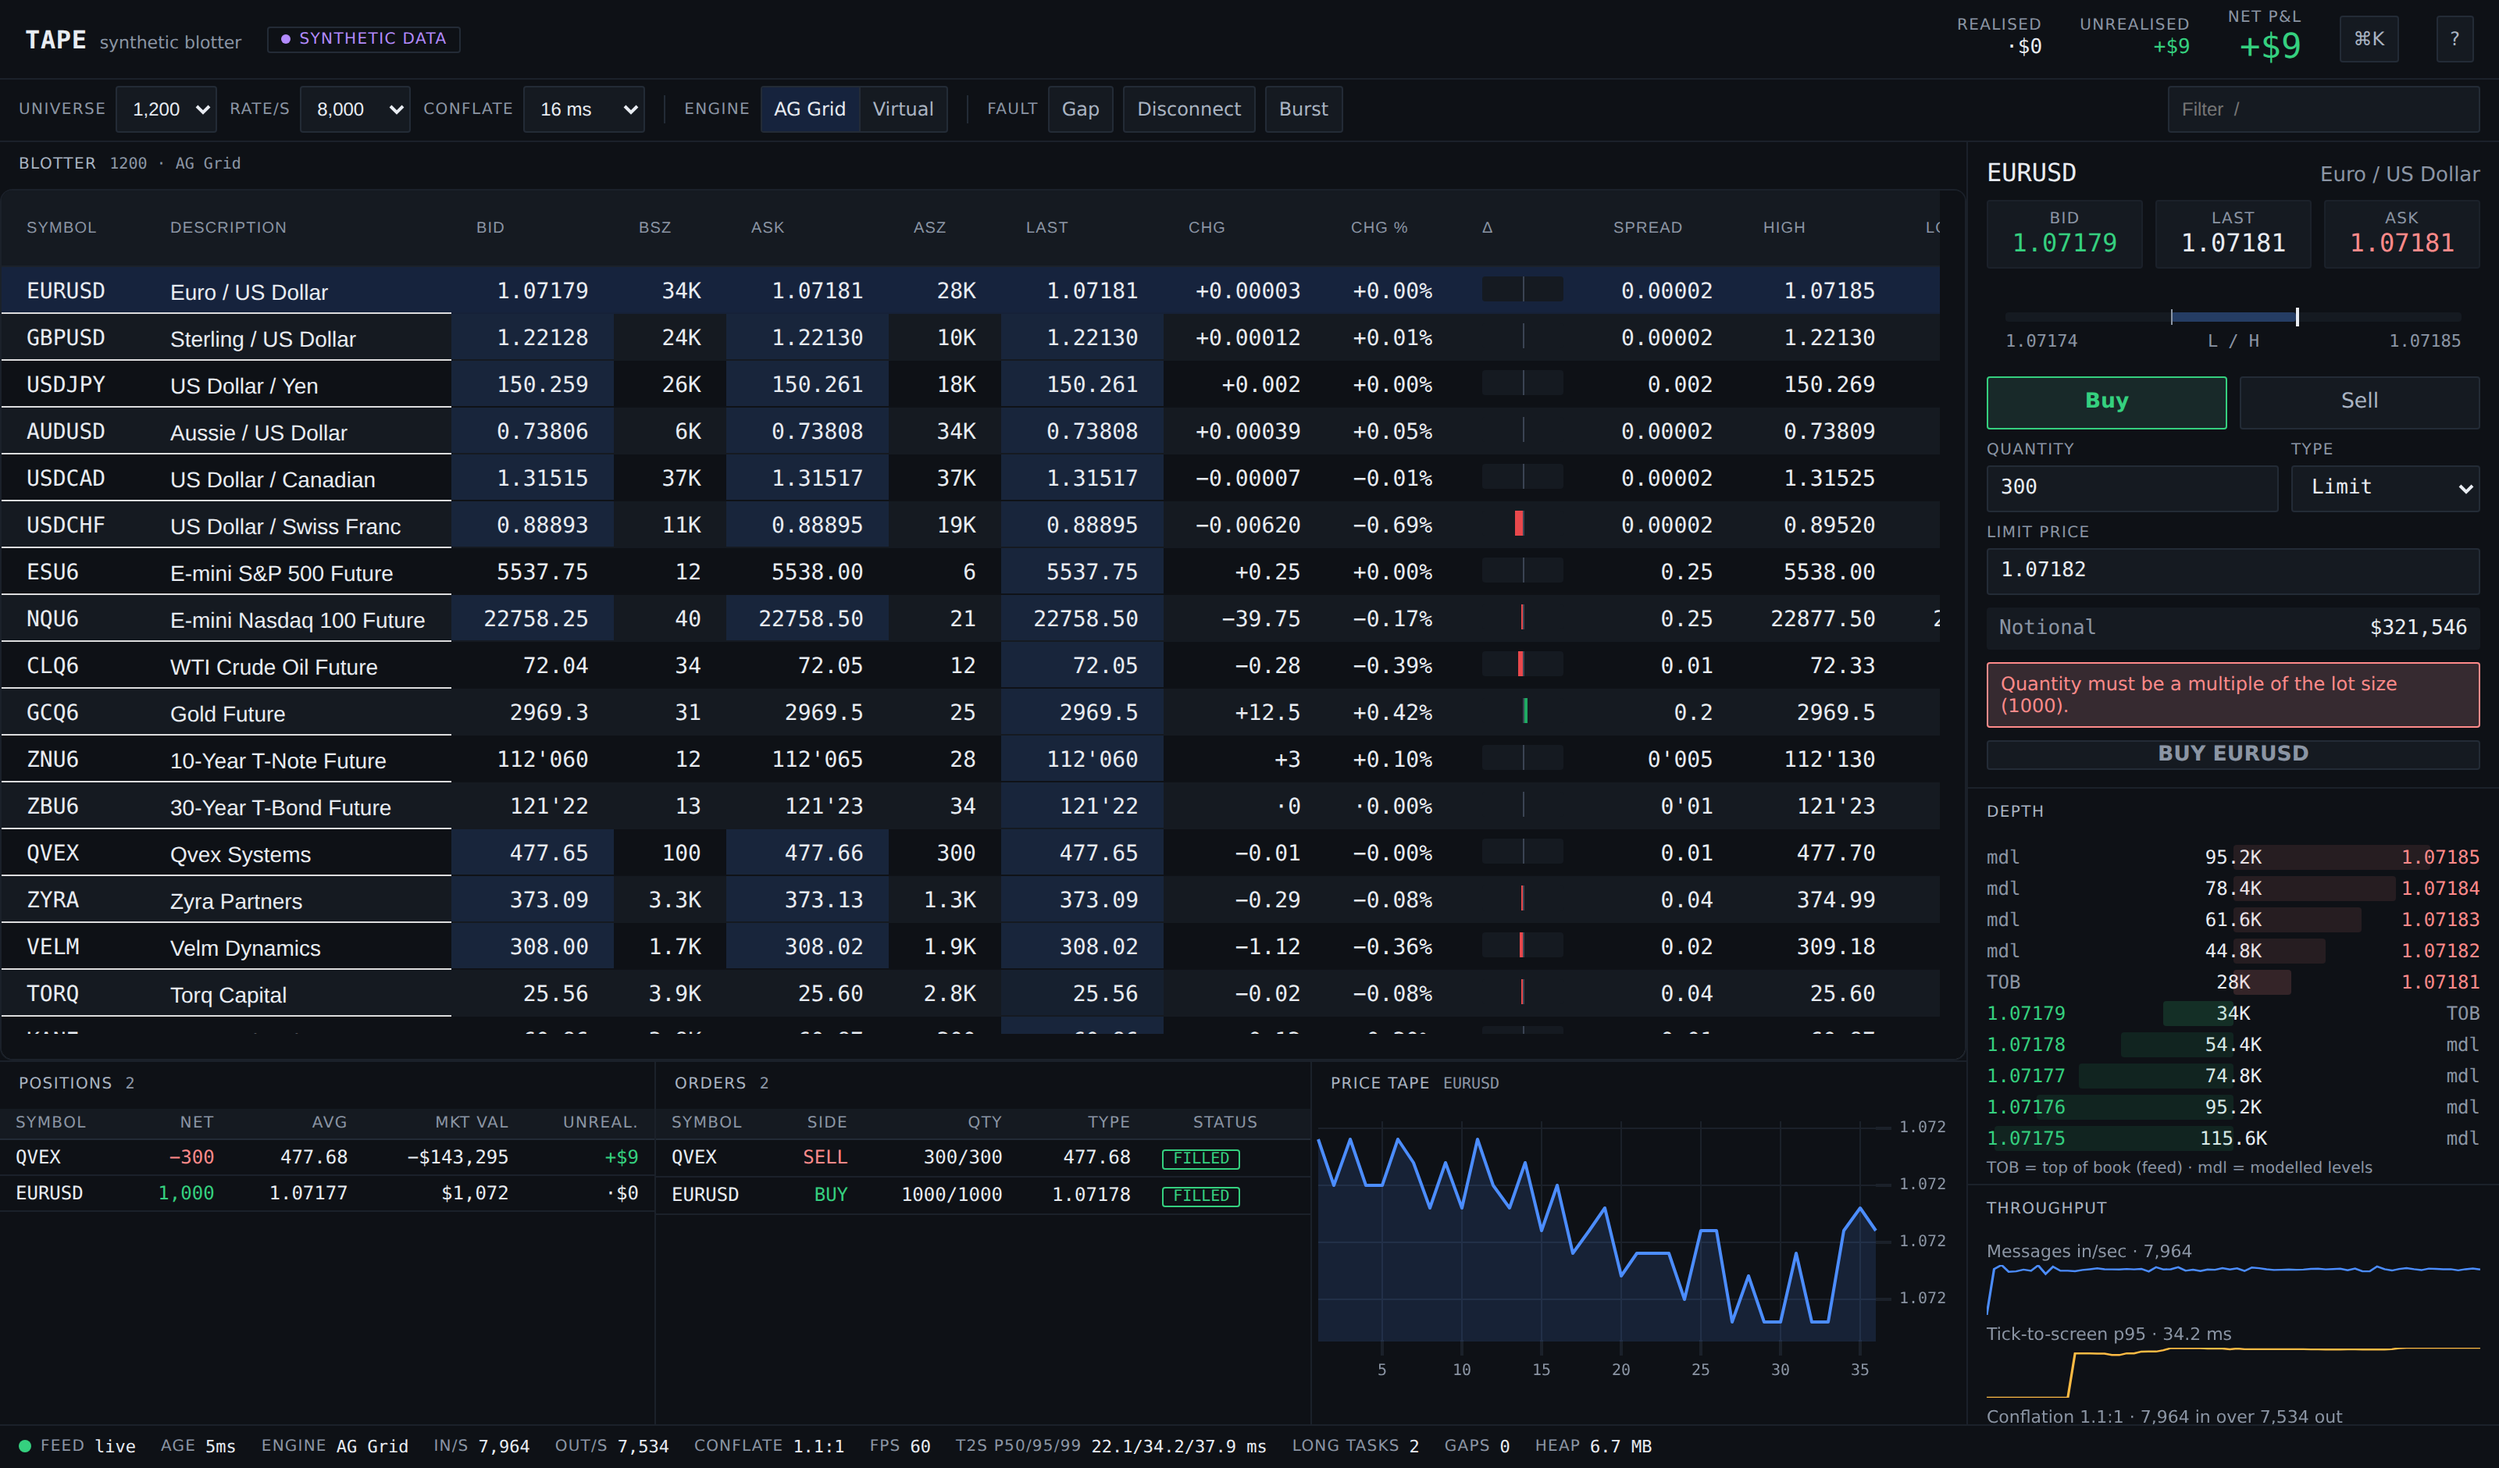
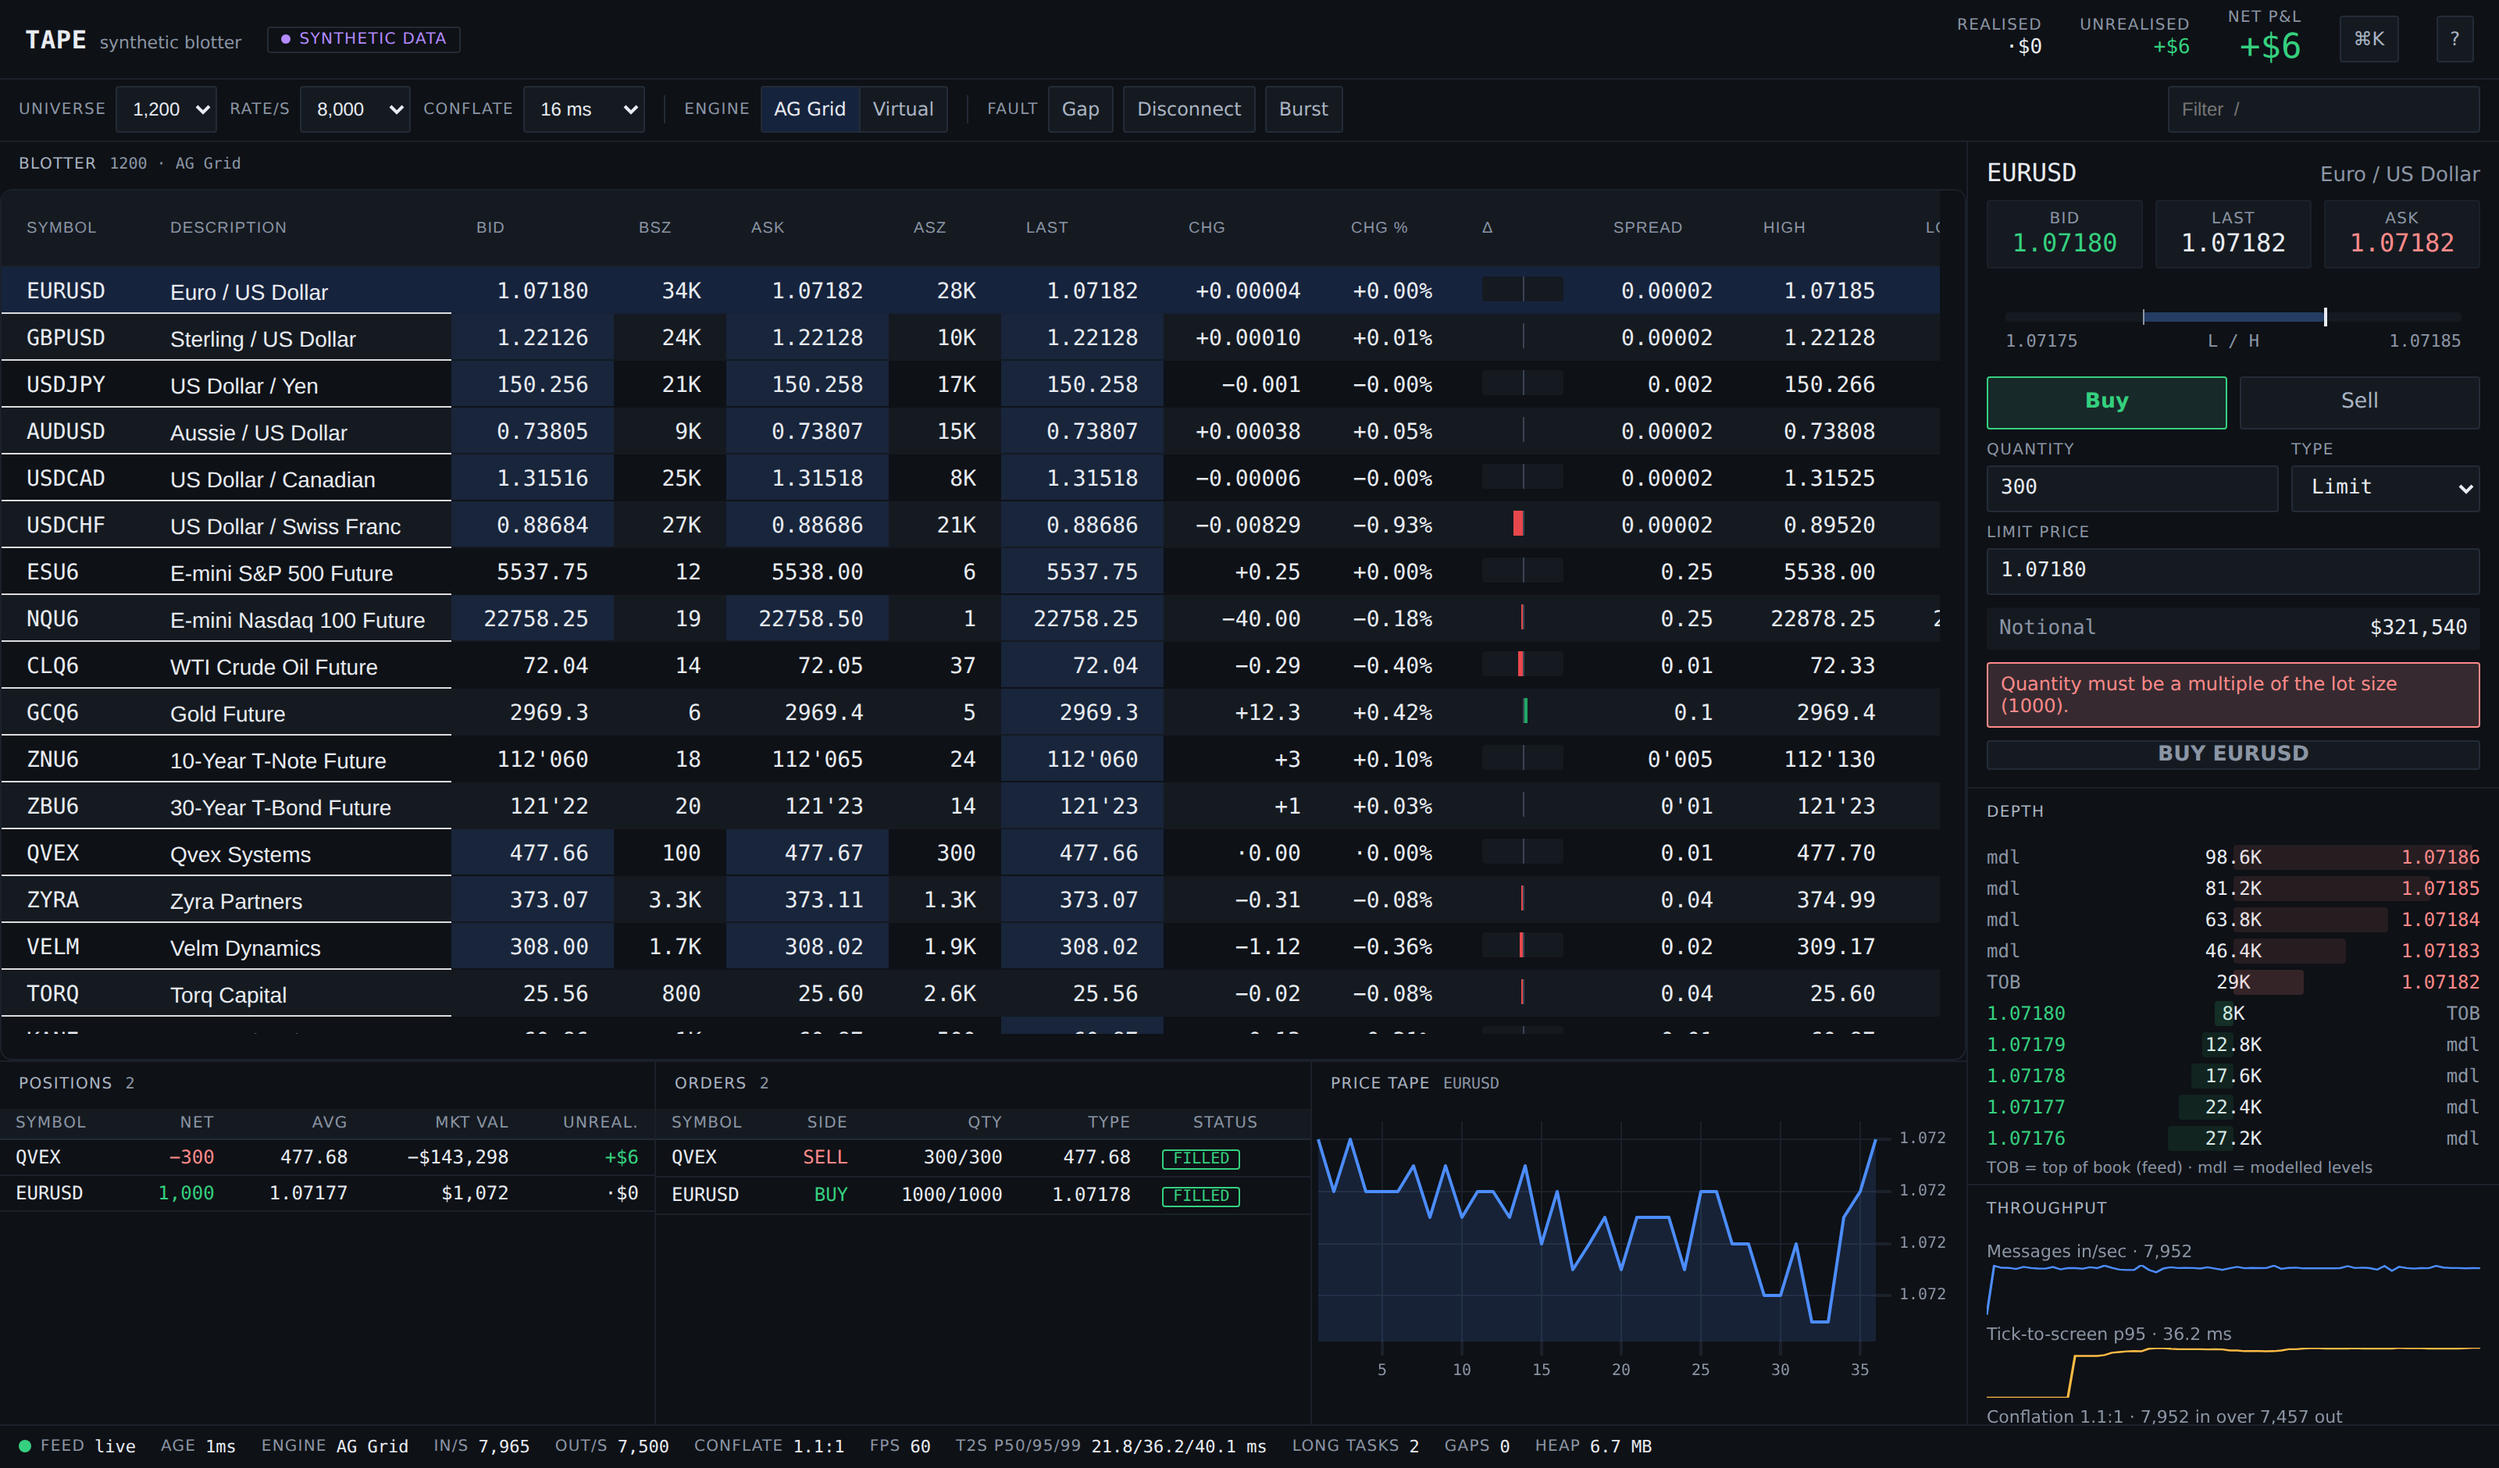
docs: changelog for final fixes; screenshot from the flash-fade build
Claude-Session: https://claude.ai/code/session_01WdnTJAF2WHdUwLiWQ9vKFR

diff --git a/CHANGELOG.md b/CHANGELOG.md
@@ -61,6 +61,12 @@ Built from spec v1.1. First public milestone (spec §9, milestone 5+ complete).
   engine flash parity, copy hygiene in visible UI strings.
 - The hand-built engine's first dedicated axe audit found and fixed a real
   `aria-required-children` defect; the both-engine axe gate is permanent.
+- **Committed WebSocket e2e tests** (server spawned per-run, CI-safe) plus e2e
+  for the last two behavioural checks; all nine are now mechanically tested.
+- **Cell-flash fade-out tokenized**: the fade phase previously fell back to the
+  legacy stylesheet's default highlight, which failed AA under high-contrast
+  white text mid-fade; it now fades token-tint → transparent over the 240 ms
+  motion token (reduced-motion aware) in place of the library's 1000 ms.
 
 ### Known open items
 
